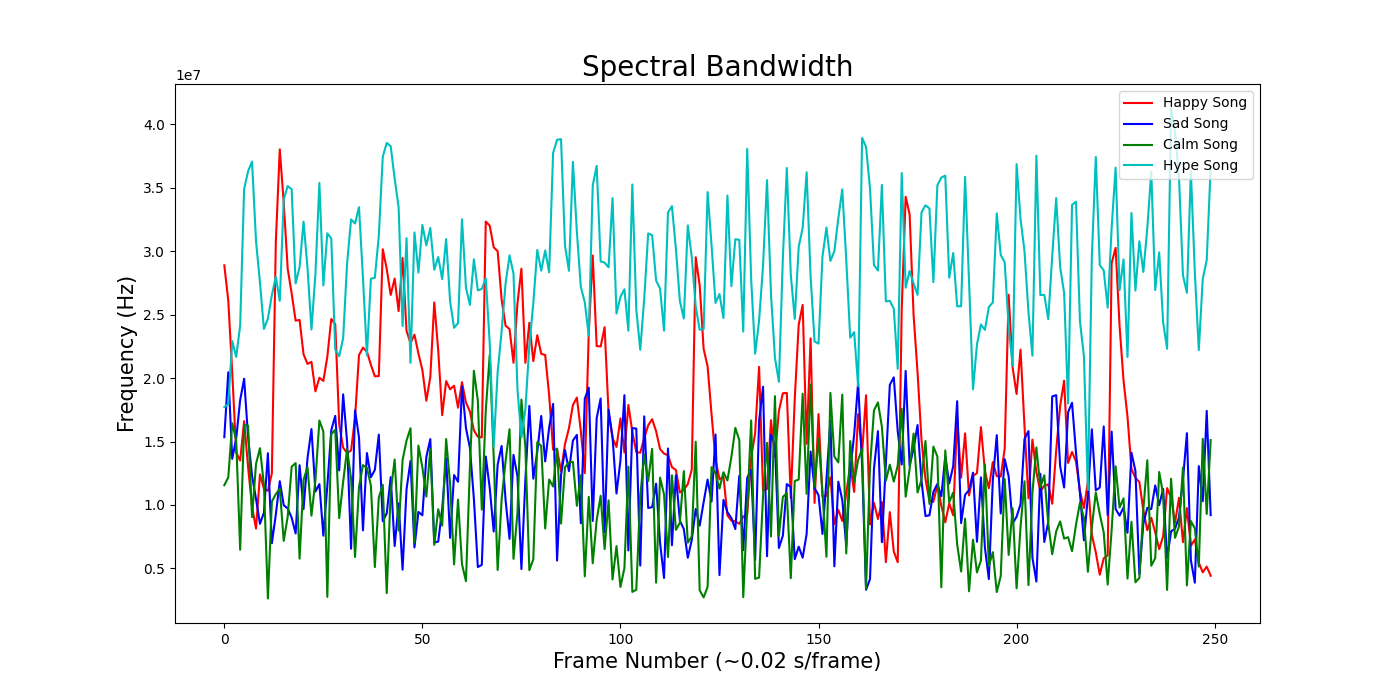
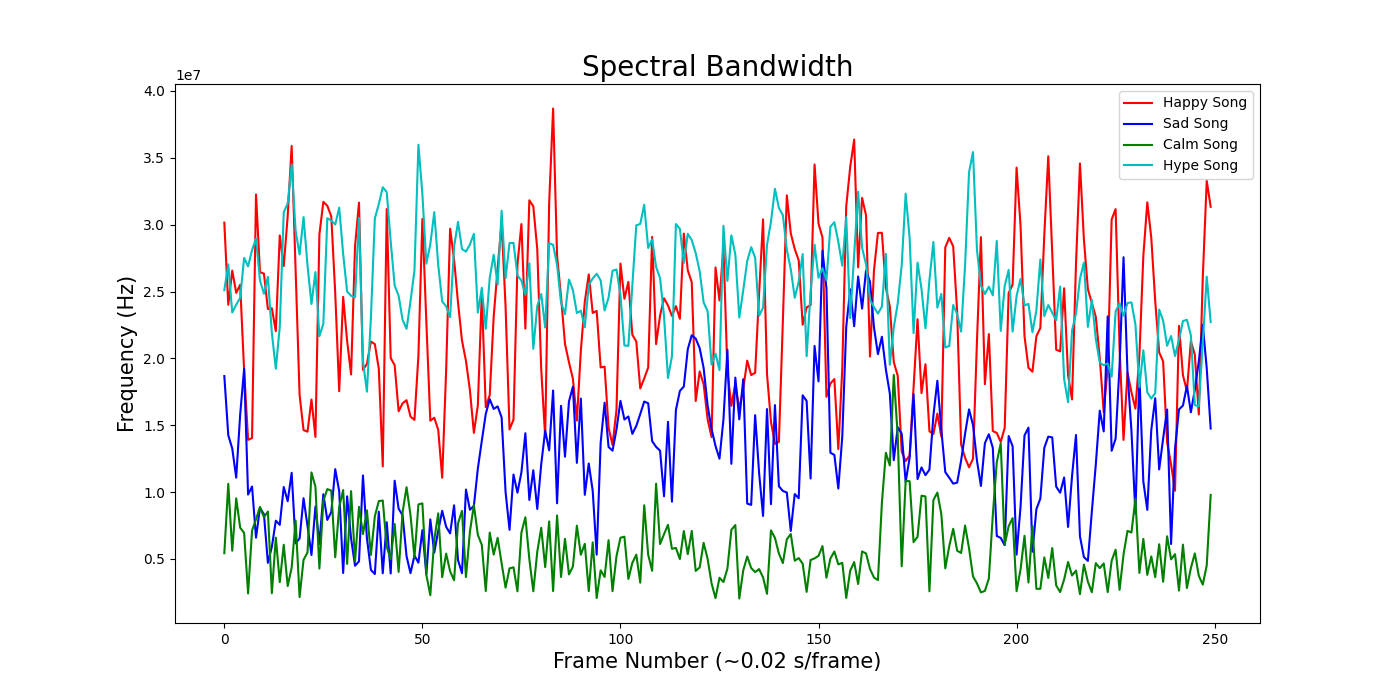
Updates songs for features

diff --git a/featurizer_tests.py b/featurizer_tests.py
@@ -8,22 +8,22 @@ import librosa.display
 
 # Plots to see if spectral centroid appears to be the weighted average frequency.
 # To run, select and right-click and select "Run Selection/Line in Interactive Window"
-fs1, data1 = wavfile.read('./train/train100.wav') # Happy Song
+fs1, data1 = wavfile.read('./test_songs/test_Happy.wav') # Happy Song
 data1 = data1[:, 0] # Take only one channel
 data1 = np.array(data1)
 data1 = ut.middle_n(data1, 250000)
 
-fs2, data2 = wavfile.read('./train/train300.wav') # Sad Song
+fs2, data2 = wavfile.read('./test_songs/test_Angel.wav') # Sad Song
 data2 = data2[:, 0] # Take only one channel
 data2 = np.array(data2)
 data2 = ut.middle_n(data2, 250000)
 
-fs3, data3 = wavfile.read('./train/train498.wav') # Calm Song
+fs3, data3 = wavfile.read('./test_songs/plots_calm.wav') # Calm Song
 data3 = data3[:, 0] # Take only one channel
 data3 = np.array(data3)
 data3 = ut.middle_n(data3, 250000)
 
-fs4, data4 = wavfile.read('./train/train700.wav') # Hype Song
+fs4, data4 = wavfile.read('./test_songs/plots_hype.wav') # Hype Song
 data4 = data4[:, 0] # Take only one channel
 data4 = np.array(data4)
 data4 = ut.middle_n(data4, 250000)
